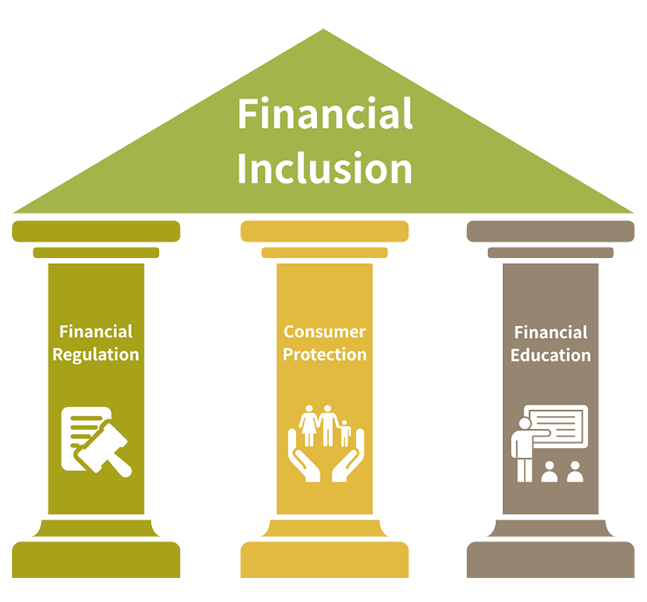
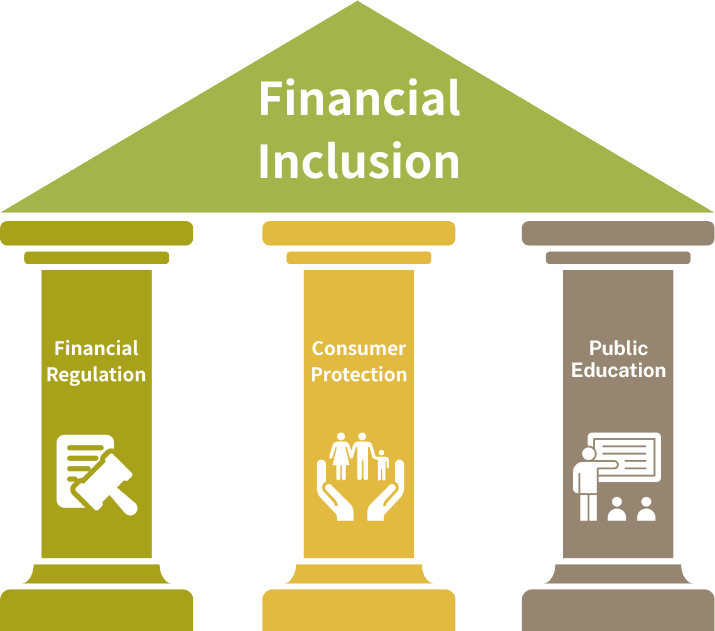
update

Changed region(s): [[0.0, 0.0, 1.0, 1.0]]

diff --git a/tabf.org.tw.en/training.html b/tabf.org.tw.en/training.html
@@ -336,7 +336,7 @@
                         </section>
     
                         <section>
-                            <h3>International Financial Talent Training Programs</h3>
+                            <h3>International training</h3>
                             <p>TABF, leading globalization, aims to be the premier choice for organizations seeking to cultivate top-tier international talent through our comprehensive training programs and partnerships. As dedicated leaders in the field, we excel in preparing individuals and businesses to thrive in an increasingly interconnected world, ensuring they have the skills and expertise necessary to succeed on a global scale.</p>
 
                             <div class="img-full">
@@ -347,17 +347,32 @@
     
                         <section>
                             <h3>Other International Training Programs</h3>
-                            <p>TABF also focuses on enhancing the practical ability of Taiwanese banks to comply with overseas financial compliance. With a specific emphasis on both local and international laws, participants gain valuable insights into regulatory frameworks essential for global compliance. Courses are conducted in prominent financial centers worldwide, including Mainland China, Hong Kong, New York, Singapore, Japan, Vietnam, Cambodia, and more, ensuring comprehensive coverage and practical training in international regulatory practices.</p>
-                            <p>According to the industry's demand for overseas exchanges, TABF organizes groups for overseas study tours from various organizations and arrange short-term overseas financial study tours, visits to financial institutions, and other industry events.</p>
+                            <p>TABF also focuses on enhancing the practical ability of Taiwanese banks to comply with overseas regulation. With a specific emphasis on both local and international laws, participants gain valuable insights into regulatory frameworks essential for global compliance. Courses are conducted in prominent financial centers worldwide, including Mainland China, Hong Kong, New York, Singapore, Japan, Vietnam, Cambodia, and more, ensuring comprehensive coverage and practical training in international regulatory practices.</p>
+                            <p>TABF organizes groups for overseas study tours from various organizations and arrange short-term overseas financial study tours, visits to financial institutions, and other industry events based on industry demand.</p>
 
                             <div class="row">
+                                <div class="col-md-6 mb-4">
+                                    <figure class="figure">
+                                        <img src="images/functions/training/training-figure-01.jpg" class="figure-img img-fluid" alt="Corporate financial compliance training session in Singapore.">
+                                        <figcaption class="figure-caption">Corporate financial compliance training session in Singapore.</figcaption>
+                                    </figure>
+                                </div>
+                                <div class="col-md-6 mb-4">
+                                    <figure class="figure">
+                                        <img src="images/functions/training/training-figure-01.jpg" class="figure-img img-fluid" alt="A group photo taken at the Leading Executive Apex Program (LEAP) held in Seattle, USA.">
+                                        <figcaption class="figure-caption">A group photo taken at the Leading Executive Apex Program (LEAP) held in Seattle, USA.</figcaption>
+                                    </figure>
+                                </div>
+                            </div>
+
+                            <!-- <div class="row">
                                 <div class="col-md-6">
                                     <img src="images/functions/training/training-06.png" alt="title-06">
                                 </div>
                                 <div class="col-md-6">
                                     <img src="images/functions/training/training-07.png" alt="title-07">
                                 </div>
-                            </div>
+                            </div> -->
                         </section>
 
                         <section>

diff --git a/tabf.org.tw.en/inclusion.html b/tabf.org.tw.en/inclusion.html
@@ -242,17 +242,21 @@
                         <section>
                             <p>Financial inclusion refers to the ability of individuals and businesses to access useful and affordable financial products and services in a responsible and sustainable manner to meet their needs, including transactions, payments, savings, loans, and insurance, as defined by the World Bank. The core vision is to enable all members of society to equally access financial products and services, thereby enhancing their financial well-being.</p>
 
-                            <h3>More Inclusive, Accessible, and Sustainable Financial Services</h3>
+                            <h3>More Inclusive, Accessible and Sustainable Services</h3>
                             <p>The global economy continues to thrive, but the accompanying issues of widening wealth gaps and unequal distribution of wealth are becoming increasingly severe. Currently, 20% of the population generates 80% of the wealth, and traditional financial institutions tend to favor the wealthy by providing them with more advantageous financial services, such as lower loan interest rates, higher deposit rates, easier access to loan services, or more convenient payment methods, among others.</p>
                             <p>In 2013, the United Nations Secretary-General’s Special Advocate for Inclusive Finance for Development (UNSGSA) highlighted that "financial inclusion serves as a driver or accelerator of economic growth, job creation, and social development." The UNSGSA advocates that "finance should serve everyone, not just the wealthy," which is also the greatest vision and goal of inclusive finance.</p>
-
+                        </section>
+                        
+                        <section>
+                            
+                            <h3>The Triad of Financial Inclusion</h3>
                             <img class="my-4"src="images/functions/inclusion/inclusion-01.png" alt="title-01">
 
                             <p><b><em>Financial regulation</em></b> involves effectively overseeing financial institutions to ensure they do not offer products that are meaningless and unaffordable for consumers.</p>
 
                             <p><b><em>Consumer protection</em></b>, led by organizations like the Consumer Protection Commission, complements financial regulation efforts, safeguarding consumers from harm.</p>
 
-                            <p><b><em>Financial education</em></b> is essential for individuals to benefit from regulatory and consumer protection mechanisms, emphasizing the need for enhanced financial literacy through education.</p>
+                            <p><b><em>Public Education</em></b> is essential for individuals to benefit from regulatory and consumer protection mechanisms, emphasizing the need for enhanced financial literacy through education.</p>
 
                             <div class="row mt-5">
                                 <div class="col-md-6">
@@ -303,9 +307,12 @@
                         
                         
                         <section>
-                            <h3>Financial Explorer 62</h3>
+                            <h3>Financial Explorer 62
+                                <a class="btn btn-href" href="https://www.tabf.org.tw/FE62/" target="_blank">
+                                    Click here to learn more.</a>
+                            </h3>
                             <p>The Financial Exploration Museum utilizes a circular corridor, a different format from traditional museums, to create a unique space for exploring financial knowledge. Through interactive multimedia displays, it showcases the trajectory and achievements of Taiwan’s financial development, helping visitors understand how finance has responded to changing social needs over time.</p>
-                            <a class="btn btn-href" href="https://www.tabf.org.tw/FE62/" target="_blank">https://www.tabf.org.tw/FE62/</a>
+                            <!-- <a class="btn btn-href" href="https://www.tabf.org.tw/FE62/" target="_blank">https://www.tabf.org.tw/FE62/</a> -->
                             
                             <img class="my-4" src="images/functions/inclusion/inclusion-07.png" alt="title-07">
 

diff --git a/tabf.org.tw.en/cooperation.html b/tabf.org.tw.en/cooperation.html
@@ -307,7 +307,7 @@
                         </section>
     
                         <section>
-                            <h3>Joint Training, Forum, and International Exchanges</h3>
+                            <h3>Joint Training, Forums, and International Exchanges</h3>
                             <p>TABF collaborates with international organizations and institutions to design joint training programs and forums encompassing a variety of topics relevant to banking and finance. Whether in-person or remote, these initiatives unite professionals, experts, practitioners, and academics from around the world to exchange insights and knowledge on diverse topics.</p>
 
                             <div class="row">

diff --git a/tabf.org.tw.en/proficiency.html b/tabf.org.tw.en/proficiency.html
@@ -475,7 +475,7 @@
                         </section>
 
                         <section>
-                            <h3>Various Formats in Financial Exams</h3>
+                            <h3>A Variety of Exam Formats</h3>
                             <p>In TABF, financial tests encompass a variety of formats. These include traditional
                                 written tests, where candidates demonstrate their knowledge through pen-and-paper
                                 assessments. Additionally, computer-based tests offer a digital platform for
